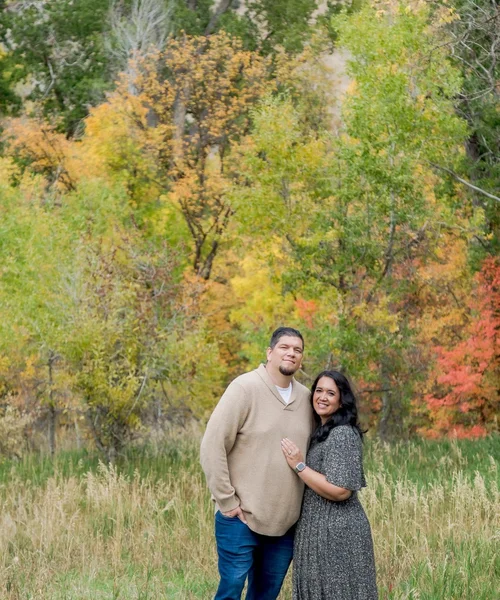
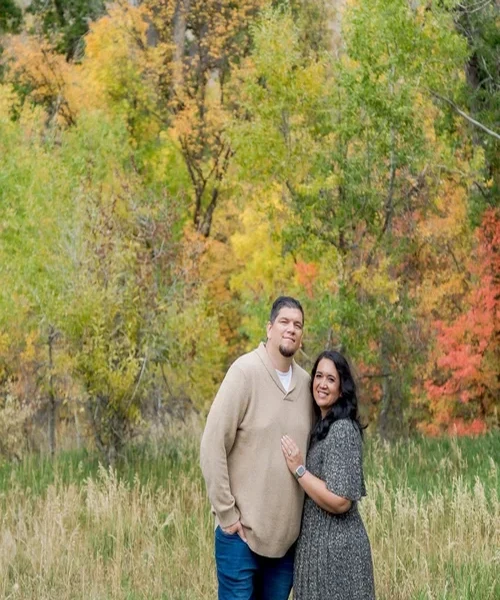
Add lightbox, pricing page, real photos across site
- Gallery: clickable images with prev/next/keyboard lightbox
- Home hero: Sister Rose farewell (best iPhone shot), real photos for all 9 feature/preview slots
- Ideas page: replace 4 placeholder card images with real gallery photos
- About: owners photo re-cropped to show couple more prominently
- New /pricing page: $80 flat rate, add-ons, FAQ — linked in nav
- Lightbox CSS added to styles.css

diff --git a/src/pages/Pricing.jsx b/src/pages/Pricing.jsx
@@ -1,0 +1,137 @@
+import { Link } from 'react-router-dom';
+import SparklesCanvas from '../components/SparklesCanvas';
+import { usePageMeta } from '../hooks/usePageMeta';
+
+const ChevronRight = ({ size = 14 }) => (
+  <svg width={size} height={size} fill="none" stroke="currentColor" strokeWidth="2.5" viewBox="0 0 24 24">
+    <polyline points="9 18 15 12 9 6" />
+  </svg>
+);
+
+const CheckIcon = () => (
+  <svg width="18" height="18" fill="none" stroke="currentColor" strokeWidth="2.5" viewBox="0 0 24 24" style={{ flexShrink: 0, color: 'var(--teal)' }}>
+    <polyline points="20 6 9 17 4 12" />
+  </svg>
+);
+
+export default function Pricing() {
+  usePageMeta(
+    'Pricing | Cedar Valley Yard Cards - Eagle Mountain Yard Card Rentals',
+    'Flat $80 yard card rental in Eagle Mountain and Saratoga Springs. Full setup, display all day, and teardown included. No hidden fees.'
+  );
+
+  return (
+    <>
+      {/* ── Hero ── */}
+      <section className="page-hero inner-page-hero">
+        <SparklesCanvas density={140} />
+        <div className="hero-content inner-hero-content">
+          <span className="eyebrow">Simple Pricing</span>
+          <h1>Flat Rate. No Surprises.</h1>
+          <p>Everything included — delivery, setup, full-day display, and teardown.</p>
+        </div>
+      </section>
+
+      {/* ── Main Pricing Card ── */}
+      <section className="pricing-section">
+        <div className="pricing-inner">
+
+          <div className="pricing-card-primary reveal">
+            <div className="pricing-card-header">
+              <span className="pricing-eyebrow">Eagle Mountain &amp; Saratoga Springs</span>
+              <div className="pricing-price">
+                <span className="pricing-dollar">$</span>
+                <span className="pricing-amount">80</span>
+              </div>
+              <p className="pricing-tagline">Full yard card display, all day.</p>
+            </div>
+            <div className="pricing-card-body">
+              <ul className="pricing-includes">
+                {[
+                  'Delivery and professional setup (early morning)',
+                  'Full-day display — all day, all the reactions',
+                  'Teardown and removal included',
+                  'Personalized message, name, and age/year',
+                  'Color and theme coordination',
+                  'Confirmation within 24 hours of booking',
+                ].map(item => (
+                  <li key={item}><CheckIcon /><span>{item}</span></li>
+                ))}
+              </ul>
+              <Link to="/booking" className="btn pricing-cta-btn">Book Your Date <ChevronRight /></Link>
+            </div>
+          </div>
+
+          {/* ── Add-ons / Fees ── */}
+          <div className="pricing-addons reveal">
+            <h2>Additional Fees</h2>
+            <div className="pricing-addon-grid">
+              {[
+                { label: 'Rush Booking', amount: '+$25', desc: 'Bookings made less than 48 hours in advance' },
+                { label: 'Cancellation', amount: '$25', desc: 'Within 48 hours of scheduled setup' },
+                { label: 'Damage', amount: '$25/piece', desc: 'Per damaged or missing piece — we keep it fair' },
+                { label: 'Out-of-Area Travel', amount: 'Varies', desc: 'Lehi, Herriman, and beyond — ask when booking' },
+              ].map(({ label, amount, desc }) => (
+                <div key={label} className="pricing-addon-card reveal">
+                  <div className="pricing-addon-top">
+                    <span className="pricing-addon-label">{label}</span>
+                    <span className="pricing-addon-amount">{amount}</span>
+                  </div>
+                  <p className="pricing-addon-desc">{desc}</p>
+                </div>
+              ))}
+            </div>
+          </div>
+
+        </div>
+      </section>
+
+      {/* ── FAQ ── */}
+      <section className="pricing-faq">
+        <div className="pricing-faq-inner">
+          <h2 className="reveal">Common Questions</h2>
+          <div className="pricing-faq-grid">
+            {[
+              {
+                q: 'What\'s included in the $80?',
+                a: 'Everything. Delivery, full professional setup early in the morning, the display stays up all day, and we come back and take it all down. You don\'t lift a finger.',
+              },
+              {
+                q: 'What areas do you serve?',
+                a: 'Eagle Mountain and Saratoga Springs are our home base — those are included in the flat rate. We also serve Lehi, Herriman, and surrounding areas with a travel fee. Just ask when you book.',
+              },
+              {
+                q: 'How early do you set up?',
+                a: 'Typically between 5am and 7am so the display is waiting when they wake up. We coordinate timing with you when you book.',
+              },
+              {
+                q: 'How do I book?',
+                a: 'Fill out our booking form and we\'ll confirm your date within 24 hours. We\'ll get the display details — name, age or year, colors — from you at that point.',
+              },
+              {
+                q: 'What if I need to cancel?',
+                a: 'Cancellations within 48 hours of your scheduled setup date have a $25 fee. Outside of that, we\'ll work with you — just reach out.',
+              },
+              {
+                q: 'Is the $80 a deposit or the full amount?',
+                a: 'That\'s the full amount. No deposit, no hidden fees. $80 covers the whole experience.',
+              },
+            ].map(({ q, a }) => (
+              <div key={q} className="pricing-faq-item reveal">
+                <h3>{q}</h3>
+                <p>{a}</p>
+              </div>
+            ))}
+          </div>
+        </div>
+      </section>
+
+      {/* ── CTA ── */}
+      <section className="cta-interrupt cta-interrupt-teal reveal">
+        <h2>Ready to Make Someone's Day?</h2>
+        <p>Book your date and we'll take it from there.</p>
+        <Link to="/booking" className="btn-white">Book Your Date</Link>
+      </section>
+    </>
+  );
+}

diff --git a/src/styles.css b/src/styles.css
@@ -568,6 +568,16 @@ nav.nav-open .nav-hamburger span:nth-child(3) { transform: translateY(-7px) rota
 .gallery-cta-right h2 { font-family: 'Cormorant Garamond', serif; font-size: clamp(26px, 3vw, 38px); font-weight: 700; color: #fff; margin-bottom: 24px; }
 @media (max-width: 719px) { .gallery-cta-inner { grid-template-columns: 1fr; gap: 32px; } }
 
+/* ── Lightbox ── */
+.lightbox { position: fixed; inset: 0; z-index: 2000; background: rgba(0,0,0,0.92); display: flex; align-items: center; justify-content: center; padding: 20px; }
+.lightbox-img-wrap { max-width: 90vw; max-height: 90vh; display: flex; flex-direction: column; align-items: center; }
+.lightbox-img-wrap img { max-width: 100%; max-height: 85vh; object-fit: contain; border-radius: 8px; display: block; }
+.lightbox-caption { color: rgba(255,255,255,0.7); font-size: 13px; margin-top: 12px; text-align: center; font-family: 'Mulish', sans-serif; }
+.lightbox-close { position: fixed; top: 20px; right: 24px; background: none; border: none; color: #fff; font-size: 36px; cursor: pointer; z-index: 2001; line-height: 1; }
+.lightbox-prev, .lightbox-next { background: none; border: none; color: #fff; font-size: 60px; cursor: pointer; padding: 0 20px; flex-shrink: 0; line-height: 1; transition: color 0.15s; }
+.lightbox-prev:hover, .lightbox-next:hover { color: var(--teal-lt); }
+@media (max-width: 719px) { .lightbox-prev, .lightbox-next { font-size: 40px; padding: 0 10px; } }
+
 /* ═══════════════════════════════════════════════════════════════════════════ */
 /* IDEAS PAGE                                                                  */
 /* ═══════════════════════════════════════════════════════════════════════════ */
@@ -602,6 +612,48 @@ nav.nav-open .nav-hamburger span:nth-child(3) { transform: translateY(-7px) rota
 .soft-cta { max-width: 720px; margin: 0 auto; border: 2px solid var(--teal); border-radius: 12px; padding: 32px 36px; text-align: center; }
 .soft-cta p { font-family: 'Cormorant Garamond', serif; font-size: 22px; color: var(--text); margin-bottom: 16px; }
 .soft-cta a { color: var(--teal); font-weight: 700; font-size: 15px; }
+
+/* ═══════════════════════════════════════════════════════════════════════════ */
+/* PRICING PAGE                                                                */
+/* ═══════════════════════════════════════════════════════════════════════════ */
+
+.pricing-section { padding: 80px 5vw; background: var(--bg); }
+.pricing-inner { max-width: 860px; margin: 0 auto; }
+
+.pricing-card-primary { background: #fff; border: 2px solid var(--teal); border-radius: 20px; overflow: hidden; box-shadow: 0 4px 32px rgba(10,147,150,0.12); margin-bottom: 60px; }
+.pricing-card-header { background: var(--teal); padding: 48px 48px 40px; text-align: center; }
+.pricing-eyebrow { display: block; font-family: 'Mulish', sans-serif; font-size: 12px; font-weight: 800; letter-spacing: 0.12em; text-transform: uppercase; color: rgba(255,255,255,0.75); margin-bottom: 16px; }
+.pricing-price { display: flex; align-items: flex-start; justify-content: center; gap: 4px; margin-bottom: 12px; }
+.pricing-dollar { font-family: 'Cormorant Garamond', serif; font-size: 40px; font-weight: 700; color: rgba(255,255,255,0.8); line-height: 1.1; margin-top: 10px; }
+.pricing-amount { font-family: 'Cormorant Garamond', serif; font-size: 96px; font-weight: 700; color: #fff; line-height: 1; }
+.pricing-tagline { font-family: 'Mulish', sans-serif; font-size: 15px; color: rgba(255,255,255,0.85); margin: 0; }
+
+.pricing-card-body { padding: 40px 48px 48px; }
+.pricing-includes { list-style: none; padding: 0; margin: 0 0 36px; display: flex; flex-direction: column; gap: 16px; }
+.pricing-includes li { display: flex; align-items: flex-start; gap: 12px; font-family: 'Mulish', sans-serif; font-size: 15px; color: var(--text); line-height: 1.5; }
+.pricing-cta-btn { width: 100%; justify-content: center; display: flex; align-items: center; gap: 8px; font-size: 16px; padding: 16px 24px; }
+
+.pricing-addons h2 { font-family: 'Cormorant Garamond', serif; font-size: clamp(26px, 3.5vw, 38px); font-weight: 700; color: var(--text); margin-bottom: 28px; }
+.pricing-addon-grid { display: grid; grid-template-columns: 1fr 1fr; gap: 16px; }
+.pricing-addon-card { background: #fff; border: 1px solid var(--border); border-radius: 12px; padding: 24px; }
+.pricing-addon-top { display: flex; justify-content: space-between; align-items: baseline; gap: 12px; margin-bottom: 8px; }
+.pricing-addon-label { font-family: 'Mulish', sans-serif; font-size: 14px; font-weight: 700; color: var(--text); }
+.pricing-addon-amount { font-family: 'Cormorant Garamond', serif; font-size: 22px; font-weight: 700; color: var(--teal); white-space: nowrap; }
+.pricing-addon-desc { font-family: 'Mulish', sans-serif; font-size: 13px; color: var(--text-muted); line-height: 1.5; margin: 0; }
+
+.pricing-faq { padding: 80px 5vw; background: var(--blush); }
+.pricing-faq-inner { max-width: 860px; margin: 0 auto; }
+.pricing-faq h2 { font-family: 'Cormorant Garamond', serif; font-size: clamp(28px, 4vw, 44px); font-weight: 700; color: var(--text); margin-bottom: 40px; }
+.pricing-faq-grid { display: grid; grid-template-columns: 1fr 1fr; gap: 32px; }
+.pricing-faq-item h3 { font-family: 'Mulish', sans-serif; font-size: 15px; font-weight: 800; color: var(--text); margin-bottom: 10px; }
+.pricing-faq-item p { font-family: 'Mulish', sans-serif; font-size: 14px; color: var(--text-muted); line-height: 1.7; margin: 0; }
+
+@media (max-width: 719px) {
+  .pricing-card-header { padding: 36px 24px 28px; }
+  .pricing-card-body { padding: 28px 24px 36px; }
+  .pricing-addon-grid { grid-template-columns: 1fr; }
+  .pricing-faq-grid { grid-template-columns: 1fr; }
+}
 
 /* ═══════════════════════════════════════════════════════════════════════════ */
 /* BOOKING PAGE                                                                */

diff --git a/src/pages/Gallery.jsx b/src/pages/Gallery.jsx
@@ -1,4 +1,4 @@
-import { useState } from 'react';
+import { useState, useEffect } from 'react';
 import { Link } from 'react-router-dom';
 import SparklesCanvas from '../components/SparklesCanvas';
 import { usePageMeta } from '../hooks/usePageMeta';
@@ -46,7 +46,26 @@ export default function Gallery() {
   );
 
   const [active, setActive] = useState('all');
+  const [lb, setLb] = useState(null);
   const visible = ITEMS.filter(i => active === 'all' || i.cat === active);
+
+  useEffect(() => { setLb(null); }, [active]);
+
+  useEffect(() => {
+    if (lb === null) return;
+    function onKey(e) {
+      if (e.key === 'Escape') setLb(null);
+      if (e.key === 'ArrowLeft') setLb(i => (i - 1 + visible.length) % visible.length);
+      if (e.key === 'ArrowRight') setLb(i => (i + 1) % visible.length);
+    }
+    window.addEventListener('keydown', onKey);
+    return () => window.removeEventListener('keydown', onKey);
+  }, [lb, visible.length]);
+
+  useEffect(() => {
+    document.body.style.overflow = lb !== null ? 'hidden' : '';
+    return () => { document.body.style.overflow = ''; };
+  }, [lb]);
 
   return (
     <>
@@ -75,8 +94,8 @@ export default function Gallery() {
             ))}
           </div>
           <div className="gallery-masonry">
-            {visible.map((item) => (
-              <div key={item.src} className="gallery-item" data-cat={item.cat}>
+            {visible.map((item, idx) => (
+              <div key={item.src} className="gallery-item" data-cat={item.cat} onClick={() => setLb(idx)} style={{ cursor: 'zoom-in' }}>
                 <img src={item.src} alt={item.alt} width={item.w} height={item.h} loading="lazy" />
                 <div className="gallery-overlay"><span className="gallery-label">{item.label}</span></div>
               </div>
@@ -97,6 +116,18 @@ export default function Gallery() {
           </div>
         </div>
       </section>
+
+      {lb !== null && (
+        <div className="lightbox" onClick={() => setLb(null)}>
+          <button className="lightbox-close" onClick={() => setLb(null)} aria-label="Close">&#x2715;</button>
+          <button className="lightbox-prev" onClick={e => { e.stopPropagation(); setLb(i => (i - 1 + visible.length) % visible.length); }} aria-label="Previous">&#8249;</button>
+          <div className="lightbox-img-wrap" onClick={e => e.stopPropagation()}>
+            <img src={visible[lb].src} alt={visible[lb].alt} />
+            <p className="lightbox-caption">{visible[lb].label}</p>
+          </div>
+          <button className="lightbox-next" onClick={e => { e.stopPropagation(); setLb(i => (i + 1) % visible.length); }} aria-label="Next">&#8250;</button>
+        </div>
+      )}
     </>
   );
 }

diff --git a/src/pages/Home.jsx b/src/pages/Home.jsx
@@ -85,7 +85,7 @@ export default function Home() {
       <section className="page-hero home-hero" style={{ position: 'relative' }}>
         <div className="hero-img-wrap">
           <img
-            src="/images/hero/hero.webp"
+            src="/images/gallery/missionary-farewell-sister-rose.webp"
             alt="Colorful oversized yard card display set up in an Eagle Mountain residential yard"
             width="1400" height="800" loading="eager" fetchPriority="high"
           />
@@ -150,7 +150,7 @@ export default function Home() {
       <section>
         <div className="feature-row reveal">
           <div className="feature-row-img">
-            <img src="https://placehold.co/600x480/c03a5f/ffffff?text=Birthday+Setup" alt="Oversized birthday yard card display" width="600" height="480" loading="lazy" />
+            <img src="/images/gallery/birthday-40-tanner.webp" alt="Oversized birthday yard card display" width="900" height="600" loading="lazy" />
           </div>
           <div className="feature-row-text">
             <span className="eyebrow">Birthdays</span>
@@ -161,7 +161,7 @@ export default function Home() {
         </div>
         <div className="feature-row flip reveal">
           <div className="feature-row-img">
-            <img src="https://placehold.co/600x480/9a2d4a/fce8ef?text=Graduation+Setup" alt="Yard card graduation display" width="600" height="480" loading="lazy" />
+            <img src="/images/gallery/graduation-brinley.webp" alt="Yard card graduation display" width="900" height="600" loading="lazy" />
           </div>
           <div className="feature-row-text">
             <span className="eyebrow">Graduations</span>
@@ -172,7 +172,7 @@ export default function Home() {
         </div>
         <div className="feature-row reveal">
           <div className="feature-row-img">
-            <img src="https://placehold.co/600x480/3a9ab8/ffffff?text=Welcome+Home+Setup" alt="Welcome home yard card display" width="600" height="480" loading="lazy" />
+            <img src="/images/gallery/missionary-homecoming-sister-cannon.webp" alt="Welcome home yard card display" width="900" height="600" loading="lazy" />
           </div>
           <div className="feature-row-text">
             <span className="eyebrow">Welcome Home</span>
@@ -192,15 +192,15 @@ export default function Home() {
           </div>
           <div className="gallery-preview-grid">
             {[
-              ['https://placehold.co/500x400/c03a5f/ffffff?text=Birthday+Display', 'Birthday yard card setup', 'Eagle Mountain, 2025'],
-              ['https://placehold.co/500x400/9a2d4a/fce8ef?text=Graduation+Display', 'Graduation yard card display', 'Eagle Mountain, 2025'],
-              ['https://placehold.co/500x400/3a9ab8/ffffff?text=Welcome+Home', 'Welcome home missionary return', 'Eagle Mountain, 2025'],
-              ['https://placehold.co/500x400/fce8ef/c03a5f?text=New+Baby', "It's a girl new baby yard card", 'Saratoga Springs, 2024'],
-              ['https://placehold.co/500x400/2d0a1a/fce8ef?text=Milestone+Birthday', '50th birthday milestone yard card', 'Lehi, 2024'],
-              ['https://placehold.co/500x400/c03a5f/ffffff?text=Retirement+Display', 'Retirement yard card display', 'Eagle Mountain, 2024'],
+              ['/images/gallery/birthday-sweet-16-qwynn.webp',              'Sweet 16 yard card display',             'Sweet 16 — Eagle Mountain'],
+              ['/images/gallery/graduation-sofia.webp',                     'Graduation yard card display',           'Graduation — Eagle Mountain, 2026'],
+              ['/images/gallery/missionary-homecoming-sister-cannon.webp',  'Welcome home missionary return',         'Mission Return — Eagle Mountain'],
+              ['/images/gallery/birthday-1st-palmer.webp',                  '1st birthday yard card setup',           '1st Birthday — Eagle Mountain'],
+              ['/images/gallery/graduation-brinley.webp',                   'Congrats Grad Brinley yard card',        'Graduation — Eagle Mountain, 2026'],
+              ['/images/gallery/retirement-amy.webp',                       'Happily Retired yard card display',      'Retirement — Eagle Mountain'],
             ].map(([src, alt, label]) => (
               <div key={src} className="gallery-preview-item reveal">
-                <img src={src} alt={alt} width="500" height="400" loading="lazy" />
+                <img src={src} alt={alt} width="900" height="600" loading="lazy" />
                 <div className="gallery-preview-overlay"><span className="gallery-preview-label">{label}</span></div>
               </div>
             ))}

diff --git a/src/pages/Ideas.jsx b/src/pages/Ideas.jsx
@@ -9,10 +9,10 @@ const ChevronRight = ({ size = 12 }) => (
 );
 
 const CARDS = [
-  { tag: 'Planning', title: 'How to Pull Off a Yard Card Surprise (Without Them Knowing)', summary: 'Coordinate timing, keep the address handy, let us handle the rest.', href: '#article-1', img: 'https://placehold.co/560x315/fce8ef/c03a5f?text=Planning+Guide', alt: 'Planning a yard card surprise' },
-  { tag: 'Graduations', title: 'Graduation Yard Card Ideas for Eagle Mountain Seniors', summary: 'Local tips for grad season in Eagle Mountain and Lehi - including when to book.', href: '#article-2', img: 'https://placehold.co/560x315/9a2d4a/fce8ef?text=Graduation+Ideas', alt: 'Graduation yard card ideas' },
-  { tag: 'Welcome Home', title: 'Missionary Return Yard Cards: Making the Welcome Home Unforgettable', summary: 'Utah County families know how special a mission return is. Here\'s how to honor it.', href: '#article-3', img: 'https://placehold.co/560x315/3a9ab8/ffffff?text=Missionary+Return', alt: 'Missionary return yard card ideas' },
-  { tag: 'Birthdays', title: 'Milestone Birthday Displays: 16, 30, 40, 50, 60, and Beyond', summary: 'Some birthdays deserve more than a card. Here\'s how to make the milestone count.', href: '#article-4', img: 'https://placehold.co/560x315/c03a5f/ffffff?text=Milestone+Birthdays', alt: 'Milestone birthday yard card ideas' },
+  { tag: 'Planning', title: 'How to Pull Off a Yard Card Surprise (Without Them Knowing)', summary: 'Coordinate timing, keep the address handy, let us handle the rest.', href: '#article-1', img: '/images/gallery/birthday-robby-jo.webp', alt: 'Planning a yard card surprise' },
+  { tag: 'Graduations', title: 'Graduation Yard Card Ideas for Eagle Mountain Seniors', summary: 'Local tips for grad season in Eagle Mountain and Lehi - including when to book.', href: '#article-2', img: '/images/gallery/graduation-brinley.webp', alt: 'Graduation yard card ideas' },
+  { tag: 'Welcome Home', title: 'Missionary Return Yard Cards: Making the Welcome Home Unforgettable', summary: 'Utah County families know how special a mission return is. Here\'s how to honor it.', href: '#article-3', img: '/images/gallery/missionary-homecoming-sister-cannon.webp', alt: 'Missionary return yard card ideas' },
+  { tag: 'Birthdays', title: 'Milestone Birthday Displays: 16, 30, 40, 50, 60, and Beyond', summary: 'Some birthdays deserve more than a card. Here\'s how to make the milestone count.', href: '#article-4', img: '/images/gallery/birthday-40-tanner.webp', alt: 'Milestone birthday yard card ideas' },
 ];
 
 export default function Ideas() {

diff --git a/src/App.jsx b/src/App.jsx
@@ -6,6 +6,7 @@ import Occasions from './pages/Occasions';
 import Gallery from './pages/Gallery';
 import Ideas from './pages/Ideas';
 import Booking from './pages/Booking';
+import Pricing from './pages/Pricing';
 
 export default function App() {
   return (
@@ -17,6 +18,7 @@ export default function App() {
           <Route path="/occasions" element={<Occasions />} />
           <Route path="/gallery" element={<Gallery />} />
           <Route path="/ideas" element={<Ideas />} />
+          <Route path="/pricing" element={<Pricing />} />
           <Route path="/booking" element={<Booking />} />
         </Routes>
       </Layout>

diff --git a/src/components/Navbar.jsx b/src/components/Navbar.jsx
@@ -5,6 +5,7 @@ import siteConfig from '../siteConfig';
 const links = [
   { to: '/occasions', label: 'Occasions' },
   { to: '/gallery',   label: 'Gallery' },
+  { to: '/pricing',   label: 'Pricing' },
   { to: '/ideas',     label: 'Ideas' },
   { to: '/about',     label: 'About' },
 ];